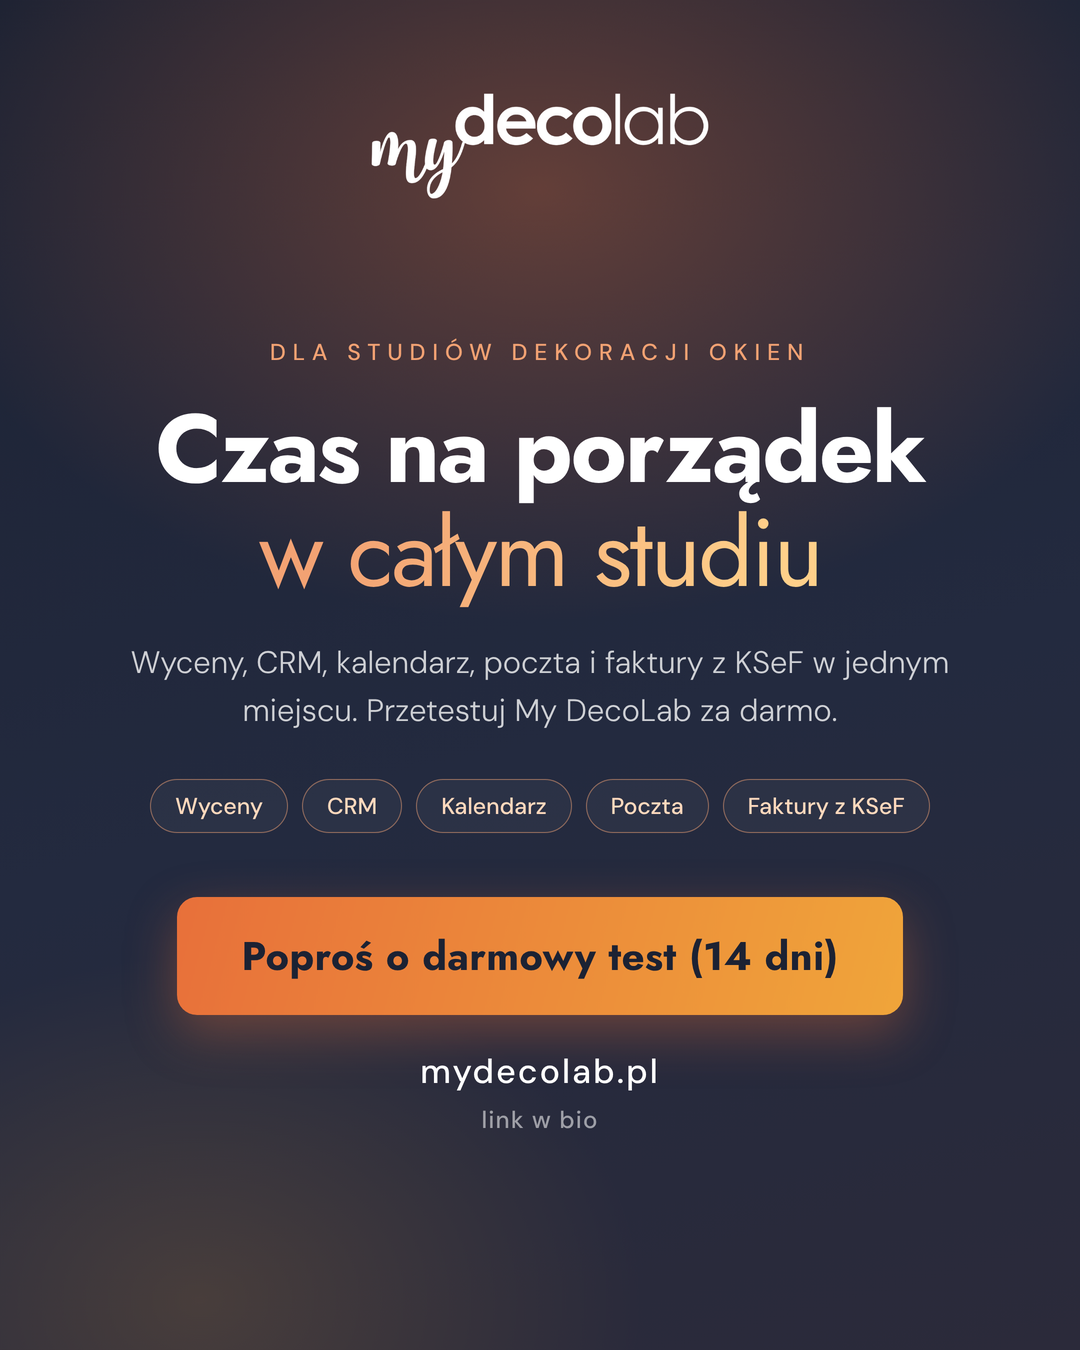
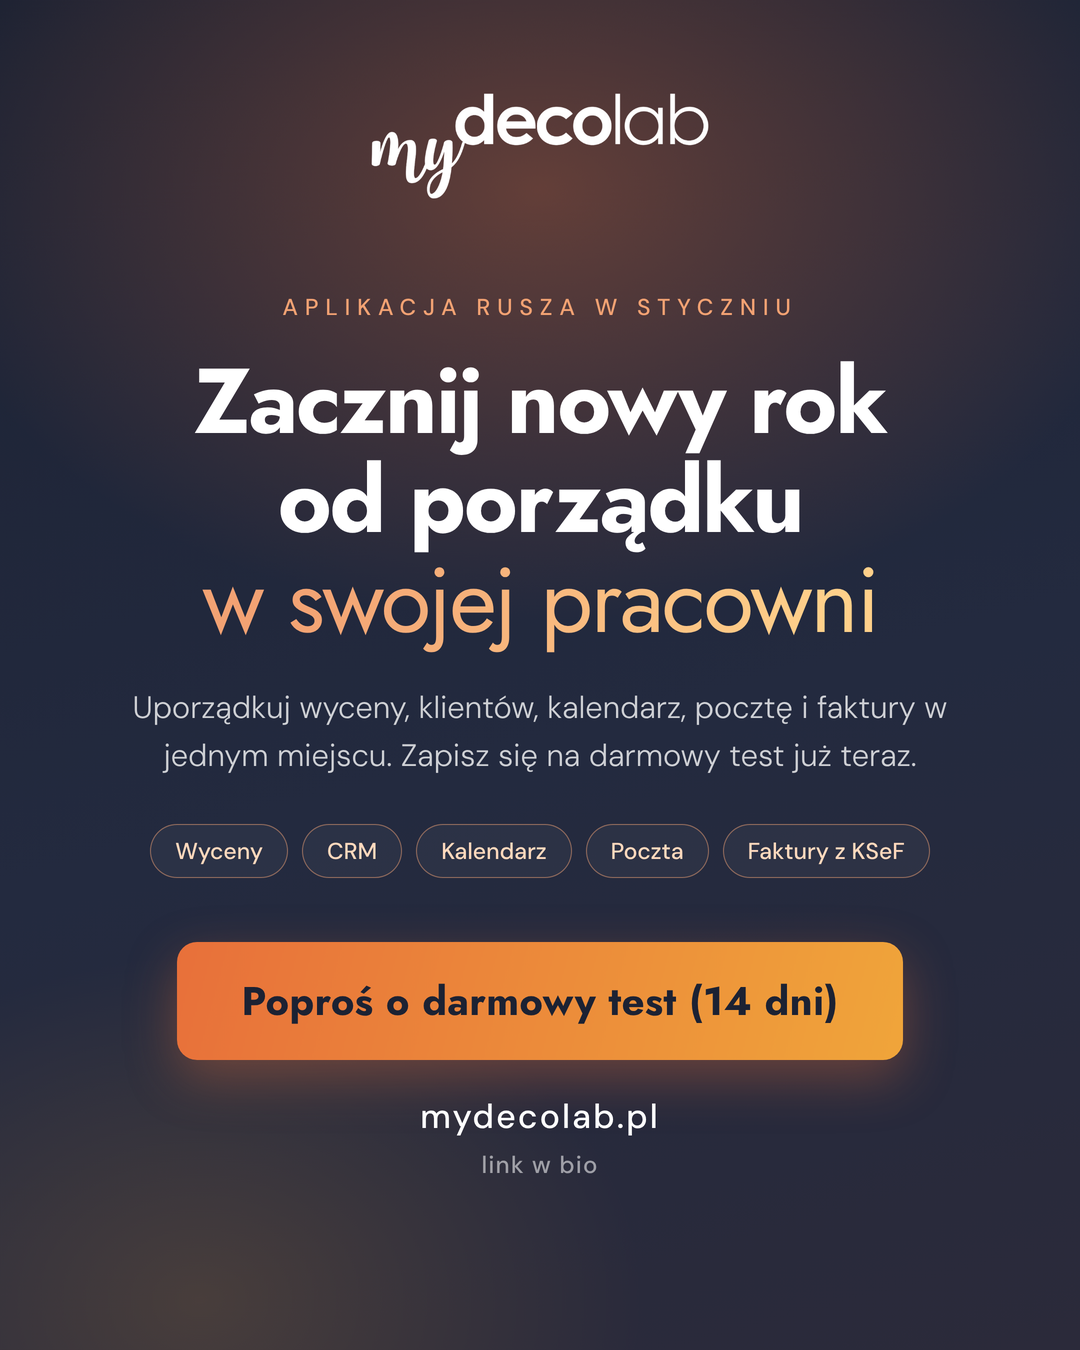
Slajd CTA: komunikat o starcie aplikacji w styczniu
Claude-Session: https://claude.ai/code/session_01GDbqFbDENKSgmogZ69L9kG

Changed region(s): [[0.1222, 0.2178, 0.8861, 0.8711], [0.4583, 0.2178, 0.4889, 0.2489], [0.275, 0.2178, 0.3056, 0.2489]]

diff --git a/social/render_cta.py b/social/render_cta.py
@@ -22,7 +22,7 @@ body{{width:1080px;height:1350px;position:relative;overflow:hidden;font-family:'
 .wrap{{position:relative;height:100%;padding:90px 80px 80px;display:flex;flex-direction:column;align-items:center;text-align:center}}
 .logo{{height:112px}}
 .eyebrow{{margin-top:auto;font-size:23px;font-weight:500;letter-spacing:.3em;text-transform:uppercase;color:#f2a273}}
-h1{{font-family:'Jost',sans-serif;font-weight:700;font-size:96px;line-height:1.08;letter-spacing:-.025em;margin-top:30px}}
+h1{{font-family:'Jost',sans-serif;font-weight:700;font-size:92px;line-height:1.08;letter-spacing:-.025em;margin-top:30px}}
 h1 em{{font-style:normal;font-weight:400;background:linear-gradient(105deg,#f2a273 15%,#ffd08a 90%);-webkit-background-clip:text;background-clip:text;color:transparent}}
 .sub{{font-size:31px;line-height:1.55;font-weight:300;color:rgba(255,255,255,.78);margin-top:34px;max-width:820px}}
 .chips{{display:flex;flex-wrap:wrap;gap:14px;justify-content:center;margin-top:44px;max-width:900px}}
@@ -33,9 +33,9 @@ h1 em{{font-style:normal;font-weight:400;background:linear-gradient(105deg,#f2a2
 .spacer{{margin-bottom:auto}}
 </style></head><body><div class=glow></div><div class=glow2></div><div class=wrap>
 <img class=logo src="file://{tmp}">
-<p class=eyebrow>Dla studiów dekoracji okien</p>
-<h1>Czas na porządek<br><em>w całym studiu</em></h1>
-<p class=sub>Wyceny, CRM, kalendarz, poczta i faktury z KSeF w jednym miejscu. Przetestuj My DecoLab za darmo.</p>
+<p class=eyebrow>Aplikacja rusza w styczniu</p>
+<h1>Zacznij nowy rok<br>od porządku<br><em>w swojej pracowni</em></h1>
+<p class=sub>Uporządkuj wyceny, klientów, kalendarz, pocztę i faktury w jednym miejscu. Zapisz się na darmowy test już teraz.</p>
 <div class=chips><span>Wyceny</span><span>CRM</span><span>Kalendarz</span><span>Poczta</span><span>Faktury z KSeF</span></div>
 <div class=btn>Poproś o darmowy test (14 dni)</div>
 <p class=url>mydecolab.pl</p>
